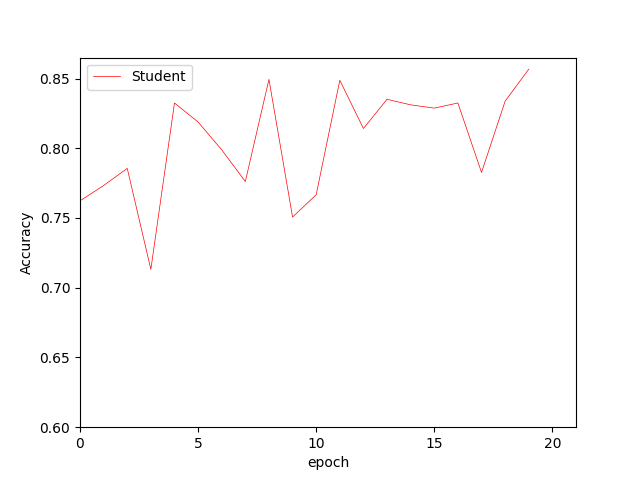
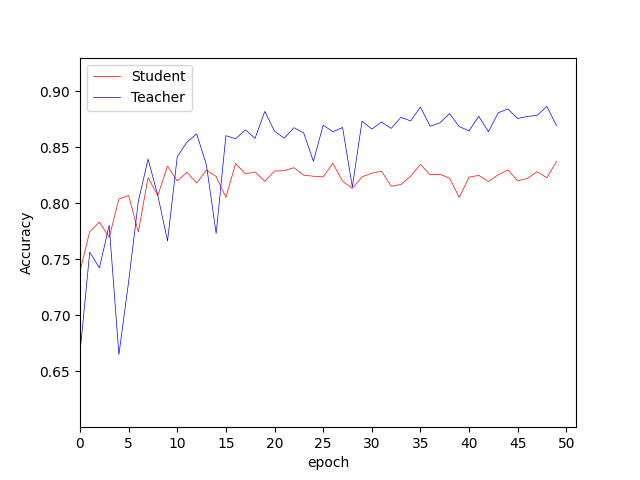
experiments

diff --git a/train_teacher.py b/train_teacher.py
@@ -28,16 +28,15 @@ def main():
         # trainset = datasets.CIFAR10(root=data_dir, download=True, train=True, transform=transform)
         # testset = datasets.CIFAR10(root=data_dir, download=True, train=False, transform=transform)
         
-        train_data_dir = './covid19/train'
-        test_data_dir = './covid19/test'
-        transform = transforms.Compose([transforms.Resize(224), transforms.ToTensor(), transforms.Normalize(mean=[0.485, 0.456, 0.406], std=[0.229, 0.224, 0.225])])
-        trainset = datasets.ImageFolder(root=train_data_dir, transform=transform)
-        testset = datasets.ImageFolder(root=test_data_dir, transform=transform)
+        data_dir = './covid19'
+        transform = transforms.Compose([transforms.Resize(224), transforms.ToTensor(), transforms.Normalize(mean=[0.485, 0.456, 0.406],std=[0.229, 0.224, 0.225])])
+        dataset = datasets.ImageFolder(root=data_dir, transform=transform)
         
-        n_samples = len(trainset)
-        n_train = int(n_samples * 0.8)
-        n_val = n_samples - n_train
-        trainset, valset = random_split(trainset, [n_train, n_val])
+        n_samples = len(dataset)
+        n_val = int(n_samples * 0.2)
+        n_test = n_val
+        n_train = n_samples - n_val - n_test
+        trainset, valset, testset = random_split(dataset, [n_train, n_val, n_test])
         
         train_dataloader = DataLoader(trainset, batch_size=batch_size, shuffle=True, drop_last=True, num_workers=8)
         val_dataloader = DataLoader(valset, batch_size=batch_size, shuffle=False)
@@ -92,7 +91,7 @@ def main():
             if score <= val_acc:
                 print('save param')
                 score = val_acc
-                # torch.save(teacher.state_dict(), './logs/teacher/' + str(i) + '.pth') ###############
+                torch.save(teacher.state_dict(), './logs/teacher/0' + str(i) + '.pth') ###############
 
             history['loss'].append(train_loss)
             history['accuracy'].append(train_acc)
@@ -101,11 +100,11 @@ def main():
 
             print(f'epoch: {epoch+1}, loss: {train_loss:.3f}, accuracy: {train_acc:.3f}, val_loss: {val_loss:.3f}, val_accuracy: {val_acc:.3f}')
             
-        # with open('./history/teacher/'+str(i)+'.pickle', mode='wb') as f: ###############
-        #     pickle.dump(history, f)
+        with open('./history/teacher/0'+str(i)+'.pickle', mode='wb') as f: ###############
+            pickle.dump(history, f)
             
         # teacher test
-        teacher.load_state_dict(torch.load('./logs/teacher/' + str(i) + '.pth'))
+        teacher.load_state_dict(torch.load('./logs/teacher/0' + str(i) + '.pth'))
         test = {'acc': [], 'loss': []}
         teacher.eval()
         
@@ -128,8 +127,8 @@ def main():
         test['loss'].append(test_loss)
         # test_loss: 0.662, test_accuracy: 0.819
         
-        # with open('./history/teacher/test'+str(i)+'.pickle', mode='wb') as f:　###############
-        #     pickle.dump(test, f)
+        with open('./history/teacher/test0'+str(i)+'.pickle', mode='wb') as f:
+            pickle.dump(test, f)
     
 if __name__ == '__main__':
     main()

diff --git a/covid_result.py b/covid_result.py
@@ -5,10 +5,21 @@ import matplotlib.pyplot as plt
 def main():
     # setting history path
     student_path = 'history/student/0'
+    teacher_path = 'history/teacher/0'
 
     # loading history
-    _, _, _, student_acc = load_hist(student_path, 1)
-
+    student_acc = load_hist(student_path, 5)
+    teacher_acc = load_hist(teacher_path, 5)
+    
+    # print test accuracy
+    student_avg_acc = load_avg_test('history/student/test0', 5)
+    student_best_acc = load_best_test('history/student/test0', 5)
+    teacher_avg_acc = load_avg_test('history/teacher/test0', 5)
+    teacher_best_acc = load_best_test('history/teacher/test0', 5)
+    
+    print('Student avg_acc: ' + str(student_avg_acc) + ' best_acc: ' + str(student_best_acc))
+    print('Teacher avg_acc: ' + str(teacher_avg_acc) + ' best_acc: ' + str(teacher_best_acc))
+    
     # plot result
     x = np.arange(50)
     fig = plt.figure()
@@ -17,11 +28,12 @@ def main():
     plt.ylabel('Accuracy')
 
     plt.plot(x, student_acc, label='Student', linewidth=0.5, color='red')
+    plt.plot(x, teacher_acc, label='Teacher', linewidth=0.5, color='blue')
 
     plt.xticks(np.arange(0, 55, 5))
-    plt.yticks(np.arange(0.60, 1.00, 0.05))
+    plt.yticks(np.arange(0.65, 1.00, 0.05))
     plt.xlim(0, 51)
-    plt.ylim(0.60, 0.91)
+    plt.ylim(0.60, 0.93)
 
     plt.legend()
     plt.savefig('./result/result00.png')
@@ -29,16 +41,41 @@ def main():
 
 def load_hist(path, iteration):
     dic = {}
-    for i in range(iteraiton):
+    for i in range(iteration):
         with open(path + str(i) + '.pickle', mode='rb') as f:
             dic[i] = pickle.load(f)
-    
     val_acc = np.zeros(len(dic[i]['val_accuracy']))
-
     for i in range(iteration):
         val_acc += np.array(dic[i]['val_accuracy'])
-    
     val_acc = val_acc / iteration
-
     return val_acc
 
+def load_best_test(path, iteration):
+    dic = {}
+    for i in range(iteration):
+        with open(path + str(i) + '.pickle', mode='rb') as f:
+            dic[i] = pickle.load(f)
+    best_acc = 0
+    for i in range(iteration):
+        if dic[i]['acc'][0] >= best_acc:
+            best_acc = dic[i]['acc'][0]
+    best_acc *= 100
+    best_acc = round(best_acc, 2)
+    return best_acc
+
+def load_avg_test(path, iteration):
+    dic = {}
+    for i in range(iteration):
+        with open(path + str(i) + '.pickle', mode='rb') as f:
+            dic[i] = pickle.load(f)
+    avg_acc = 0
+    for i in range(iteration):
+        avg_acc += dic[i]['acc'][0]
+    avg_acc = avg_acc / iteration
+    avg_acc *= 100
+    avg_acc = round(avg_acc, 2)
+    return avg_acc
+    
+
+if __name__ == '__main__':
+    main()

diff --git a/train_student.py b/train_student.py
@@ -14,7 +14,7 @@ from src.kd_loss.st import SoftTargetLoss
 import pickle
 
 def main():
-    for i in range(1):
+    for i in range(5):
         print(i+1)
         epochs = 50
         batch_size = 32
@@ -27,19 +27,18 @@ def main():
         # trainset = datasets.CIFAR10(root=data_dir, download=True, train=True, transform=transform)
         # testset = datasets.CIFAR10(root=data_dir, download=True, train=False, transform=transform)
         
-        train_data_dir = './covid19/train'
-        test_data_dir = './covid19/test'
+        data_dir = './covid19'
         transform = transforms.Compose([transforms.Resize(224), transforms.ToTensor(), transforms.Normalize(mean=[0.485, 0.456, 0.406],std=[0.229, 0.224, 0.225])])
-        trainset = datasets.ImageFolder(root=train_data_dir, transform=transform)
-        testset = datasets.ImageFolder(root=test_data_dir, transform=transform)
+        dataset = datasets.ImageFolder(root=data_dir, transform=transform)
         
-        n_samples = len(trainset)
-        n_train = int(n_samples * 0.8)
-        n_val = n_samples - n_train
-        trainset, cifar10_val = random_split(trainset, [n_train, n_val])
+        n_samples = len(dataset)
+        n_val = int(n_samples * 0.2)
+        n_test = n_val
+        n_train = n_samples - n_val - n_test
+        trainset, valset, testset = random_split(dataset, [n_train, n_val, n_test])
         
         train_dataloader = DataLoader(trainset, batch_size=batch_size, shuffle=True, drop_last=True, num_workers=8)
-        val_dataloader = DataLoader(cifar10_val, batch_size=batch_size, shuffle=False)
+        val_dataloader = DataLoader(valset, batch_size=batch_size, shuffle=False)
         test_dataloader = DataLoader(testset, batch_size=batch_size, shuffle=False)
         
         student = Model().to(device)
@@ -104,7 +103,7 @@ def main():
             pickle.dump(history, f)
 
         # student test
-        student.load_state_dict(torch.load('./logs/student/' + str(i) + '.pth'))
+        student.load_state_dict(torch.load('./logs/student/0' + str(i) + '.pth'))
         student.eval()
         
         test = {'acc': [], 'loss': []}
@@ -126,8 +125,9 @@ def main():
         # test_loss: 0.905, test_accuracy: 0.781
         test['acc'].append(test_acc)
         test['loss'].append(test_loss)
-        # with open('./history/student/test'+str(i)+'.pickle', mode='wb') as f: #########
-        #     pickle.dump(test, f)
+        
+        with open('./history/student/test0'+str(i)+'.pickle', mode='wb') as f: #########
+            pickle.dump(test, f)
         
     
 if __name__ == '__main__':

diff --git a/src/model.py b/src/model.py
@@ -163,11 +163,11 @@ class Model(BaseModel):
 class TModel(BaseModel):
     def __init__(self, input_dim=3):
         super().__init__()
-        self.layer1 = self._make_student_layer(2, input_dim, 16)
-        self.layer2 = self._make_student_layer(2, 16, 32)
-        self.layer3 = self._make_student_layer(2, 32, 64)
-        self.layer4 = self._make_student_layer(2, 64, 128)
-        self.mlp = MLP(512, 128, 4)
+        self.layer1 = self._make_student_layer(3, input_dim, 32)
+        self.layer2 = self._make_student_layer(3, 32, 64)
+        self.layer3 = self._make_student_layer(3, 64, 128)
+        self.layer4 = self._make_student_layer(3, 128, 256)
+        self.mlp = MLP(1024, 128, 4)
         self.maxpool = nn.MaxPool2d(3, stride=3)
     
     def forward(self, x):
